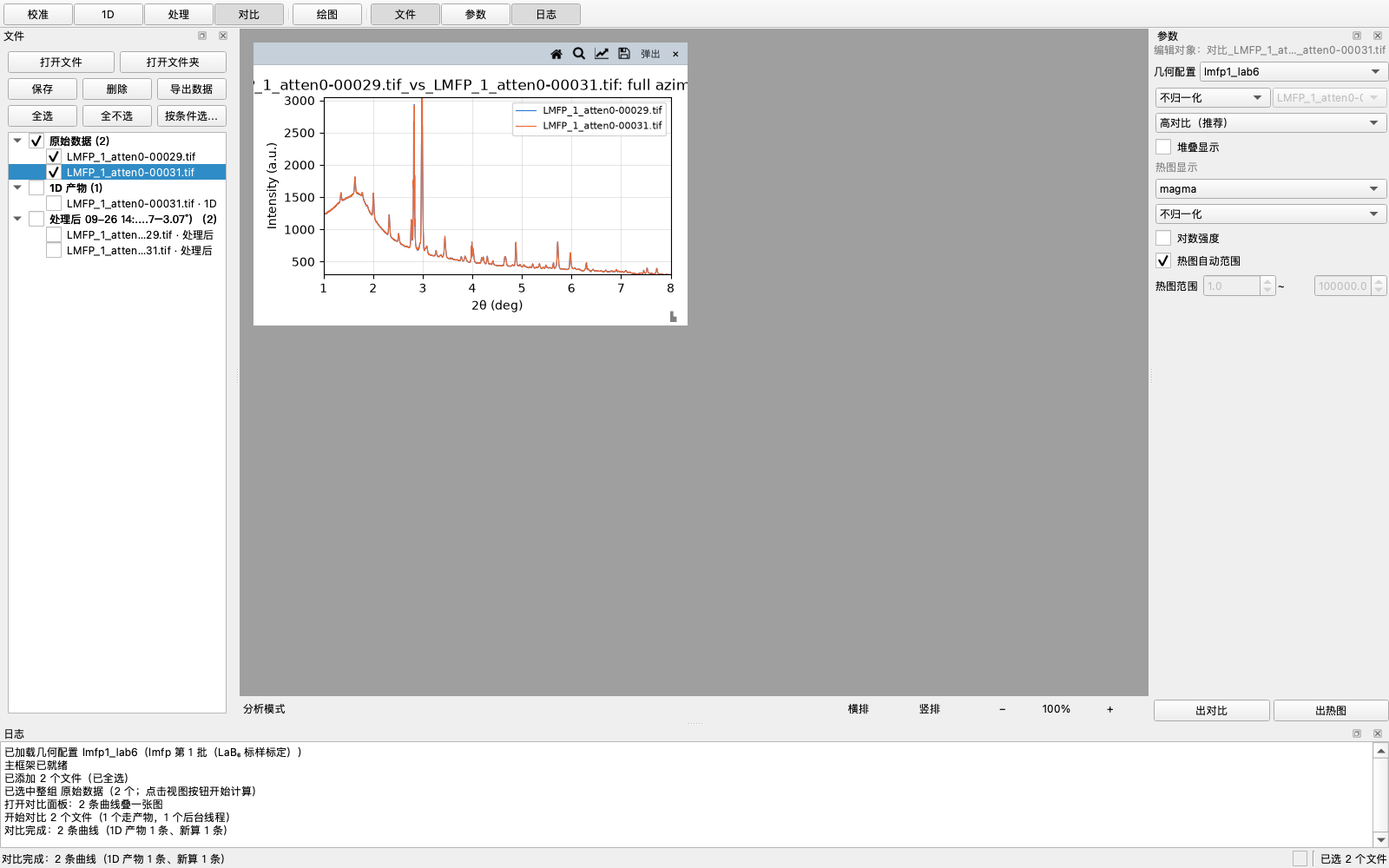
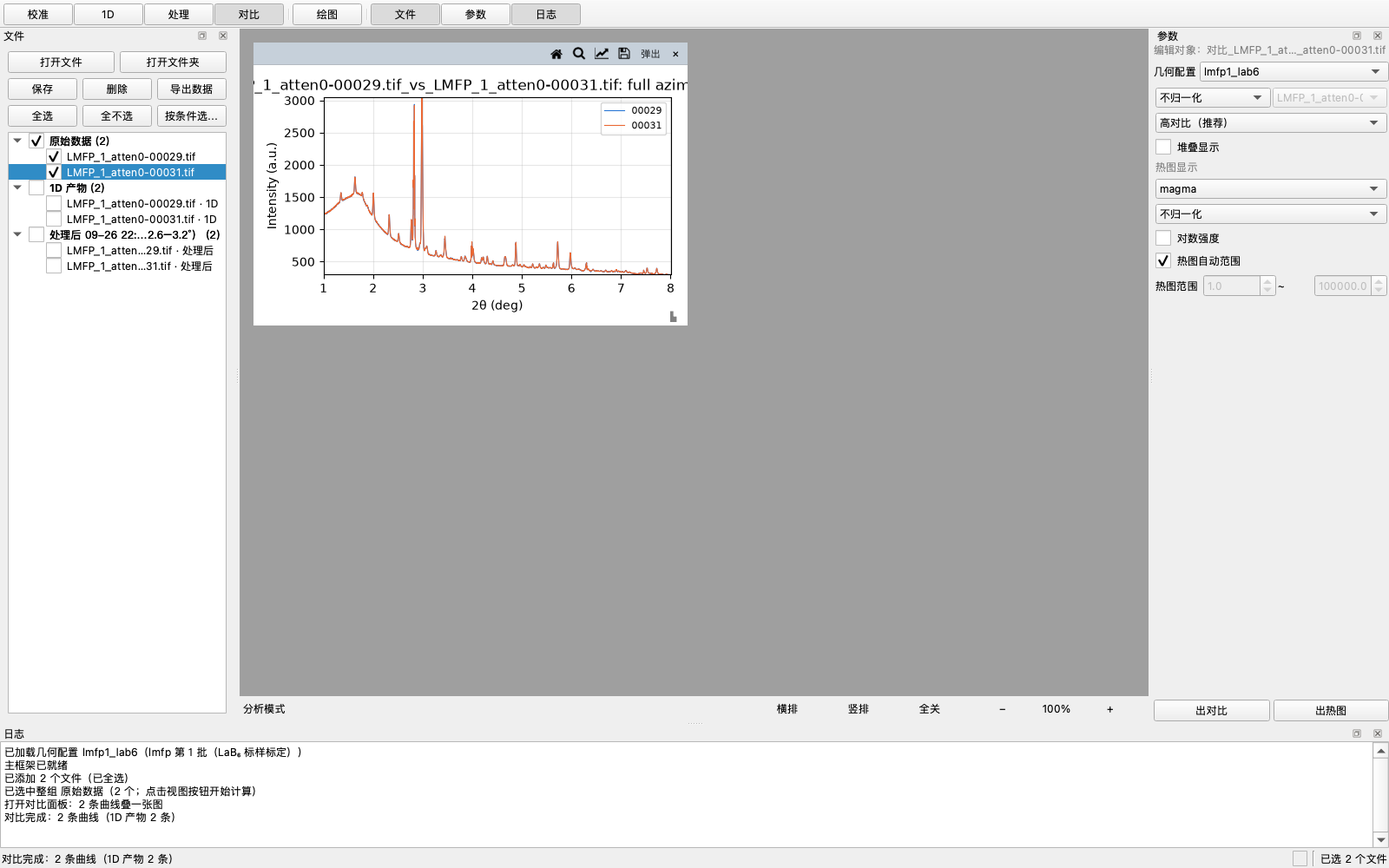
feat: a background that takes the hump with it, and three ways to see 81 curves
Four things from one sitting (2026-09-26), the last three from the user's
"What about this too": "加一个一键关闭所有图像… 对比的图例还是影响看图，
太多了… 热图的名称也没改".

**The auto baseline's default window is 0.5°, not 1.0°.** The user's
"还是不行" traced to the broad amorphous hump at 1.6–2.6° of their LMFP
data: at a 1° window the estimator treats that hump as structure and
leaves it behind (residual median 34, max 527 counts). At 0.5° the
residual is −1/322 while the giant peak keeps its height (2510 → 2516)
and the baseline rides only 142 counts up under it. 0.1° removes the
hump too, but rides the peaks harder (211) — dangerous for samples whose
peaks approach the window width — so 0.5 is the default and 0.1 is one
word away. All four places that carry the default moved together (the
service constant, the two display-default dicts, and _bg_params'
fallback).

**The heatmap's row names are numbers now, and thin out.** 81 names like
"LMFP_1_atten0-00029.tif" smeared into one black band and pushed the map
to the right edge (the user's own screenshot). `_strip_common` takes the
common prefix up to a separator *when every remainder then starts with a
digit* — so "…atten0-00029.tif" → "00029", while "fake_a/fake_b" is left
alone (stripping it would leave "a"/"b") — and the labels are thinned to
the panel height, the same trick the waterfall's χ ticks got.

**The compare panel drops its legend past 12 curves.** A wall of 81 names
covers exactly the data you are comparing; instead the log says how to
[…]

diff --git a/tests/test_gui_integration.py b/tests/test_gui_integration.py
@@ -3916,6 +3916,55 @@ class TestCompare(unittest.TestCase):
             self.assertTrue(_wait_until(lambda: len(ax.lines) >= 2))
         return ax
 
+    def test_strip_common_shortens_batch_names_only(self):
+        """短名助手：剥批次前缀与扩展名换出号段；短名字不剥（免得只剩 a）。"""
+        strip = gui_plot_compare._strip_common
+        self.assertEqual(
+            strip(["LMFP_1_atten0-00029.tif", "LMFP_1_atten0-00031.tif"]),
+            ["00029", "00031"])
+        self.assertEqual(strip(["scan_001.dat", "scan_002.dat"]),
+                         ["001", "002"])
+        # 前缀剥完只剩一个字母的，不剥（反而更难认）；扩展名照剥
+        self.assertEqual(strip(["fake_a.tif", "fake_b.tif"]),
+                         ["fake_a", "fake_b"])
+        self.assertEqual(strip(["样品A", "样品B"]), ["样品A", "样品B"])
+        self.assertEqual(strip(["只有一个"]), ["只有一个"])
+
+    def test_compare_legend_hidden_when_too_many_curves(self):
+        """曲线超过 LEGEND_MAX_CURVES → 不画图例（它挡图），日志说清怎么办。
+
+        用户 2026-09-26："对比的图例还是影响看图，太多了"。认曲线改看
+        状态栏悬停读数（那里本来就报曲线名）。
+        """
+        w = create_window()
+        files = _tmp_files(gui_plot_compare.LEGEND_MAX_CURVES + 1)
+        try:
+            with mock.patch.object(gui_views, "_compute_integration",
+                                   side_effect=_fake_compare_compute):
+                w.add_files([str(p) for p in files], select=True)
+                w.compare_btn.click()
+                ax = self._compare_axes(w)
+                self.assertTrue(_wait_until(
+                    lambda: len(ax.lines) >= len(files)))
+            self.assertIsNone(ax.get_legend(), "条数超限就不该有图例")
+            log = w.log_text.toPlainText()
+            self.assertIn(f"对比图例：{len(files)} 条曲线太多", log)
+            self.assertIn("悬停读数", log)
+            # 少到阈值以内 → 图例回来（用短名）
+            dock = w.plot_docks[[k for k in w.plot_docks
+                                 if k.startswith("对比|")][0]]
+            for key in list(dock.compare_data)[2:]:
+                hidden = set(getattr(dock, "compare_hidden", None) or ())
+                dock.compare_hidden = hidden | {key}
+            gui_plot_compare._redraw_compare(w, dock.panel_key)
+            leg = ax.get_legend()
+            self.assertIsNotNone(leg, "两条曲线的图例该回来")
+            # 名字 = 短名（临时文件叫 s1/s2，扩展名已剥掉）
+            self.assertEqual([t.get_text() for t in leg.get_texts()],
+                             [Path(p).stem for p in files[:2]])
+        finally:
+            w.close()
+
     def test_compare_requires_two_checked_files(self):
         """只勾一个文件点 [对比] → 提示至少两个，不开面板。"""
         w = create_window()
@@ -4233,6 +4282,38 @@ class TestArrangeModeClose(unittest.TestCase):
             self.assertIn("已横排 2 个面板", w.log_text.toPlainText())
             w.arrange_buttons["竖排"].click()
             self.assertIn("已竖排 2 个面板", w.log_text.toPlainText())
+        finally:
+            with mock.patch.object(gui_app, "_confirm_close",
+                                   return_value="discard"):
+                w.close()
+
+    def test_close_all_button_closes_every_panel(self):
+        """[全关]：一键关掉所有图面板，焦点与编辑对象一起复位。
+
+        用户 2026-09-26："加一个一键关闭所有图像，就是打开的子窗口全部
+        关闭"。与单个 × 同一条路径，但**不逐张写日志**（一次关几十张
+        会刷屏），只写一行汇总（含几张没存过盘）。
+        """
+        w = create_window()
+        try:
+            w.show()
+            with mock.patch.object(gui_views, "_compute_integration",
+                                   side_effect=_fake_compute):
+                add_checked(w, ["data/fake_a.tif", "data/fake_b.tif"])
+                _open_view(w, "1D")
+                self.assertTrue(_wait_until(
+                    lambda: len(_axes(w, "1D", "data/fake_a.tif").lines) > 0))
+            self.assertEqual(len(w.plot_docks), 2)
+            w.close_all_btn.click()
+            QApplication.processEvents()
+            self.assertEqual(len(w.plot_docks), 0, "该一张不剩")
+            self.assertIsNone(w.focus_panel)
+            self.assertIn("未选中图面板", w.focus_label.text())
+            log = w.log_text.toPlainText()
+            self.assertIn("已关闭全部 2 张图", log)
+            self.assertIn("没存过盘", log)
+            self.assertEqual(log.count("已关闭面板："), 0,
+                             "全关不逐张写日志（那是刷屏）")
         finally:
             with mock.patch.object(gui_app, "_confirm_close",
                                    return_value="discard"):
@@ -9601,6 +9682,26 @@ class TestHeatmap(unittest.TestCase):
     图像 [应用] 只重画、数据 [应用] 全部重积分。
     """
 
+    def test_heatmap_labels_shorten_and_thin_out(self):
+        """行名 = 号段短名 + 按高度抽稀（81 个长名字会糊成一条黑带）。
+
+        用户 2026-09-26 的热图截图：81 个 "LMFP_1_atten0-000NN" 挤成
+        黑带，还把整张图挤到右边。矮面板抽稀、高面板全标。
+        """
+        from matplotlib.figure import Figure
+        names = [f"LMFP_1_atten0-{i:05d}.tif" for i in range(40)]
+        short = Figure(figsize=(4, 2), dpi=100).add_subplot(111)
+        labels = gui_plot_compare._short_labels(names, short)
+        self.assertEqual(len(labels), 40)
+        shown = [x for x in labels if x]
+        self.assertLess(len(shown), 40, "矮面板上该抽稀")
+        self.assertTrue(shown and all(x.isdigit() for x in shown),
+                        f"该只剩号段：{shown[:3]}")
+        tall = Figure(figsize=(6, 9), dpi=100).add_subplot(111)
+        self.assertEqual(
+            len([x for x in gui_plot_compare._short_labels(names, tall) if x]),
+            40, "9 英寸高的面板放得下 40 个")
+
     def _heat_dock(self, w):
         """找到热图面板（键 = "热图|路径串"）。"""
         return next(d for k, d in w.plot_docks.items()
@@ -10565,7 +10666,8 @@ class TestBackgroundSubtraction(unittest.TestCase):
             w.params["背景窗口 (°)"].setValue(4.0)
             w.findChild(QPushButton, "reset_image_btn").click()
             self.assertEqual(w.params["背景扣除模式"].currentData(), "off")
-            self.assertEqual(w.params["背景窗口 (°)"].value(), 1.0)
+            # 窗口默认 0.5°（2026-09-26 从 1.0° 改，见 background.AUTO_WINDOW_DEG）
+            self.assertEqual(w.params["背景窗口 (°)"].value(), 0.5)
             ax = _axes(w, "1D", self.PATH)
             self.assertEqual(_bg_lines(ax)[1], [])
             self.assertIsNotNone(getattr(dock, "last_tth", None))

diff --git a/src/xrd_toolkit/gui/plot_compare.py b/src/xrd_toolkit/gui/plot_compare.py
@@ -5,6 +5,7 @@
 依赖方向：本模块 → plot_views（背景叠加/重画）与 plot_panels（面板壳），
 反向调用一律函数内延迟导入。
 """
+import os
 import time
 from pathlib import Path
 
@@ -24,6 +25,81 @@ from xrd_toolkit.gui.plot_panels import (
 from xrd_toolkit.gui.plot_views import (
     _batch_step, _bg_path_of, _curve_for, _progress_show, _refresh_proc,
     _spawn)
+
+
+# 对比面板图例最多列几条：再多就不画了（挡住图的是那 81 行名字）。
+# 用户 2026-09-26："对比的图例还是影响看图，太多了"。
+LEGEND_MAX_CURVES = 12
+
+# 剥公共后缀的门槛（".tif" 4 个字符）：够长才剥，且剥完不能空
+MIN_SUFFIX_CHARS = 4
+
+
+def _strip_common(names) -> list:
+    """剥掉一组名字共同的前缀（在最后一个非数字字符处切断）与共同后缀。
+
+    81 个 "LMFP_1_atten0-00029.tif" 里真正有信息的是 "00029"：共同前缀在
+    纵轴上占掉半张图、还糊成一条黑带（用户 2026-09-26 的热图截图）。前缀
+    在**最后一个非数字字符之后**切断，号段位数不丢；后缀（如 ".tif"）整段
+    剥掉。名字不足两个、或剥完会空则原样返回。
+    """
+    if len(names) < 2:
+        return list(names)
+    prefix = os.path.commonprefix(list(names))
+    cut = max((i + 1 for i, ch in enumerate(prefix) if not ch.isdigit()),
+              default=0)
+    prefix = prefix[:cut] if cut else ""
+    # 剥前缀的两个条件：切在分隔符处（"LMFP_1_atten0-" 这样的批次头），
+    # 且剥完每个名字都以**数字**开头——我们要的就是那个号段。于是
+    # "fake_a/fake_b"（剥完是 a/b）不会被剥，反而更好认。
+    out = list(names)
+    if prefix and prefix[-1] in "-_. " and all(
+            n[len(prefix):len(prefix) + 1].isdigit() for n in names):
+        out = [n[len(prefix):] for n in names]
+    suffix = os.path.commonprefix([n[::-1] for n in out])[::-1]
+    if len(suffix) >= MIN_SUFFIX_CHARS and all(len(n) > len(suffix)
+                                               for n in out):
+        out = [n[:-len(suffix)] for n in out]
+    return out
+
+
+def _short_labels(names, ax) -> list:
+    """纵轴标签 = 短名 + 按可用高度抽稀（同瀑布图 χ 刻度那一招）。
+
+    热图一次可能摆 81 个样品：名字糊成黑带之外，整个图还会被标签挤到右边。
+    抽稀按面板高度估（英寸 × dpi），每个标签留 ~11 px；放得下就全标。
+    完整名字仍在面板标题、悬停读数与导出里。
+    """
+    short = _strip_common(list(names))
+    n = len(short)
+    if not n:
+        return []
+    h_px = float(ax.figure.get_size_inches()[1]) * float(ax.figure.dpi)
+    every = max(1, int(np.ceil(n * 11.0 / max(h_px * 0.75, 1.0))))
+    return [s if k % every == 0 else "" for k, s in enumerate(short)]
+
+
+def _draw_compare_legend(window, dock, ax, labels) -> None:
+    """对比面板图例：超过 LEGEND_MAX_CURVES 就不画图例（它挡图）。
+
+    画得下时用**短名**（剥共同前后缀）+ 多列排（每列约 8 条）；条数变了
+    才记一次日志（重画不刷屏）。认曲线不靠图例也行：状态栏悬停读数本来
+    就报曲线名，圆点颜色与曲线一致。
+    """
+    n = len(labels)
+    if n > LEGEND_MAX_CURVES:
+        if getattr(dock, "_legend_off_n", None) != n:
+            dock._legend_off_n = n
+            _log(window, f"对比图例：{n} 条曲线太多、挡住图了，默认不画；"
+                         "点热图某一行可隐藏/显示几条，曲线名看状态栏"
+                         "悬停读数（圆点颜色与曲线一致）")
+        return
+    dock._legend_off_n = None
+    shown = [lb for lb in labels if lb]
+    if not shown:
+        return
+    ax.legend(labels=_strip_common(shown), fontsize=8,
+              ncols=max(1, int(np.ceil(len(shown) / 8.0))))
 
 
 def _compare_title(displays) -> str:
@@ -128,8 +204,10 @@ def _redraw_compare(window: QMainWindow, key: str) -> None:
         _apply_text_guards(dock, ax, keep_title, keep_xlabel, keep_ylabel)
         if dock.compare_data and not stack:
             # 堆叠下 y 刻度 = 样品名（曲线就躺在自己名字那行上），
-            # 图例冗余（同瀑布）
-            ax.legend(fontsize=8)
+            # 图例冗余（同瀑布）；平铺时按条数决定画不画（多了挡图）
+            _draw_compare_legend(
+                window, dock, ax,
+                [ln.get_label() for ln in _data_lines(ax)])
         ax.grid(alpha=0.3)
         _content(dock).draw()
     finally:
@@ -561,7 +639,7 @@ def _draw_heatmap(window: QMainWindow, dock, tth, matrix, stems) -> None:
                        norm=norm, extent=[float(tth[0]), float(tth[-1]),
                                           -0.5, n - 0.5])
         ax.set_yticks(range(n))
-        ax.set_yticklabels(stems, fontsize=7)
+        ax.set_yticklabels(_short_labels(stems, ax), fontsize=7)
         # 颜色条同 2D：只建一次、之后 update_normal 复用（remove+
         # 重建会让坐标轴每次再让 20% 宽度，教训 13）
         cb = getattr(dock, "_heat_colorbar", None)

diff --git a/src/xrd_toolkit/gui/panels.py b/src/xrd_toolkit/gui/panels.py
@@ -204,8 +204,30 @@ def _apply_panel_chrome(dock, content) -> None:
     dock.setWindowFlags(flags)
 
 
-def _close_panel(window: QMainWindow, key: str) -> None:
+def _close_all_panels(window: QMainWindow) -> None:
+    """[全关]：把所有图面板一次关掉（弹出去的独立窗口也一样）。
+
+    用户 2026-09-26："加一个一键关闭所有图像，就是打开的子窗口全部关闭"。
+    与单个 × 同一条 _close_panel 路径（关闭即遗忘、焦点逐个移交）；不弹
+    确认框——单个 × 也不弹（只有关窗才问存不存盘），批量关不该比单个更
+    啰嗦，但日志里报一句有几张没存过盘，免得关完才想起来。
+    """
+    keys = list(window.plot_docks)
+    unsaved = [k for k, d in window.plot_docks.items()
+               if getattr(_content(d), "figure", None) is not None
+               and not getattr(d, "figure_saved", False)]
+    for key in keys:
+        _close_panel(window, key, quiet=True)
+    if keys:
+        tail = f"（其中 {len(unsaved)} 张没存过盘）" if unsaved else ""
+        _log(window, f"已关闭全部 {len(keys)} 张图{tail}")
+
+
+def _close_panel(window: QMainWindow, key: str, quiet: bool = False) -> None:
     """统一关闭面板：从登记表移除（关闭即遗忘）+ 焦点移交 + 销毁容器。
+
+    quiet=True 不写"已关闭面板"那行（[全关] 一次关几十张时不刷屏，
+    汇总行由调用方写）。
 
     幂等：面板已不在登记表里（如收回主窗口后旧壳被删除）直接返回。
     子窗口先从 MDI 摘下再 deleteLater（探针验证 closeEvent 里这组
@@ -224,7 +246,8 @@ def _close_panel(window: QMainWindow, key: str) -> None:
         if dock in window.mdi.subWindowList():
             window.mdi.removeSubWindow(dock)
         dock.deleteLater()
-    _log(window, f"已关闭面板：{dock.windowTitle()}")
+    if not quiet:
+        _log(window, f"已关闭面板：{dock.windowTitle()}")
     if window.focus_panel == key:
         window.focus_panel = None   # 先清空，绕过 _set_focus 的同键早退
         for next_key, next_dock in window.plot_docks.items():
@@ -282,6 +305,16 @@ def _build_center(window: QMainWindow) -> None:
         window.arrange_buttons[name] = btn
         btn.clicked.connect(
             lambda checked=False, n=name: _arrange(window, n))
+    # [全关]：一键关掉所有图面板（用户 2026-09-26："打开的子窗口全部关闭"）
+    btn_close_all = QPushButton("全关")
+    btn_close_all.setObjectName("close_all_panels")
+    btn_close_all.setFlat(True)
+    btn_close_all.setToolTip("关闭所有打开的图面板（弹出的独立窗口也一起关；"
+                             "与单个 × 一样不会问存不存盘，日志里会报几张"
+                             "没存过盘）")
+    btn_close_all.clicked.connect(lambda: _close_all_panels(window))
+    row.addWidget(btn_close_all)
+    window.close_all_btn = btn_close_all
 
     # 总缩放控件（Excel 式 − 100% +）：放在横排/竖排右边
     zoom_box = QWidget()

diff --git a/src/xrd_toolkit/services/background.py b/src/xrd_toolkit/services/background.py
@@ -31,9 +31,13 @@ from scipy.interpolate import CubicSpline, PchipInterpolator
 
 # --- 自动基线的默认参数 -------------------------------------------------
 # 自动基线默认窗口宽度（度）：多宽的一段算"背景"而不是"峰"。
-# 1.0° 的来历：LMFP/lab6 的衍射峰半高宽约 0.1~0.3°，窗口取峰宽的 3~10 倍
-# 时窗内多数点是背景；再宽则跟不上低角陡升。
-AUTO_WINDOW_DEG = 1.0
+# 0.5° 的来历（2026-09-26 晚按真数据实测改，原为 1.0°）：窗口取峰宽的
+# 3~10 倍（LMFP/lab6 峰半高宽 0.1~0.3°）时窗内多数点是背景；但 1.0° 会把
+# **宽非晶鼓包**（1.6~2.6° 那个包，正是样品自身的漫散射 = 背景）留在扣后
+# 曲线里——实测残留中位 34、最大 527。改 0.5° 后残留中位 −1、最大 322，
+# 而巨峰扣后高度几乎不变（2510 → 2516），基线在峰下只抬高 142（0.1° 会
+# 抬到 211，峰宽接近窗口的样品有啃峰风险，故取 0.5 而不是更小）。
+AUTO_WINDOW_DEG = 0.5
 # 阶段 1 用的低分位：给一个**不会被峰抬高**的局部下限（可以偏低）。
 AUTO_FLOOR_PERCENTILE = 20.0
 # 阶段 2 迭代次数与噪声带宽度 k（掩掉"高于局部下限 + kσ"的峰点）。

diff --git a/src/xrd_toolkit/gui/panel_state.py b/src/xrd_toolkit/gui/panel_state.py
@@ -120,7 +120,7 @@ _DISPLAY_DEFAULTS = {
     # auto 自动基线 / anchor 手动锚点；锚点列表与空扫曲线不是参数，
     # 放窗级属性（window.bg_anchors / window.bg_blank）
     "背景扣除模式": "off",
-    "背景窗口 (°)": 1.0,
+    "背景窗口 (°)": 0.5,
     "空扫归一化": 1.0,
     # 锚点之间的拟合：保单调平滑（pchip，过点、不过冲）。新面板的显示
     # 参数从这份默认起步、再回放进控件——所以这里不跟着改的话，界面
@@ -510,7 +510,7 @@ def _bg_params(window: QMainWindow, dock, path) -> dict:
     """
     return {
         "mode": _panel_param(window, dock, "背景扣除模式", "off"),
-        "window_deg": _panel_param(window, dock, "背景窗口 (°)", 1.0),
+        "window_deg": _panel_param(window, dock, "背景窗口 (°)", 0.5),
         "blank_scale": _panel_param(window, dock, "空扫归一化", 1.0),
         "anchors": (getattr(window, "bg_anchors", None) or {}).get(str(path),
                                                                   []),

diff --git a/src/xrd_toolkit/gui/app.py b/src/xrd_toolkit/gui/app.py
@@ -1152,7 +1152,7 @@ def _build_param_dock(window: QMainWindow) -> QDockWidget:
         "热图下限": 1.0,
         "热图上限": 100000.0,
         "背景扣除模式": "off",
-        "背景窗口 (°)": 1.0,
+        "背景窗口 (°)": 0.5,
         "空扫归一化": 1.0,
         "锚点拟合方式": "pchip",
         "背景显示原始": True,

diff --git a/docs/NOTES.md b/docs/NOTES.md
@@ -155,7 +155,7 @@ The parameter dock's 背景扣除 section removes what carries no structural inf
 Three modes, every one previewed live (parameters change the drawing only — the cached raw curve is never touched, so nothing re-integrates):
 
 - **empty-scan subtraction** — subtract a blank measurement, with a normalization factor for differing exposure/beam current;
-- **auto baseline** — rolling-window level estimate; set the window to 3–10× the widest peak's width (the local-linear stage below widened the usable range from "around 1°" to 0.5–3°);
+- **auto baseline** — rolling-window level estimate; set the window to 3–10× the widest peak's width (the local-linear stage below widened the usable range from "around 1°" to 0.5–3°). **Default 0.5°** since 2026-09-26, down from 1.0°: on the LMFP data a 1° window left the broad amorphous hump (1.6–2.6°) behind as a residual (median 34, max 527 counts), because that hump is wide enough to look like structure to the estimator — 0.5° takes it out (residual median −1, max 322) while the giant peak keeps its height (2510 → 2516); 0.1° removes it too but rides the peaks harder (baseline 211 counts up under the giant peak vs 142);
 - **manual anchors** — click points that are background only; the baseline joins them and is extrapolated linearly past the first/last anchor. Between anchors it defaults to a **monotone-preserving smooth** (pchip: exact through the anchors, smooth, no overshoot); a polyline (the lab convention) and a natural cubic spline (can overshoot) are also available.
 
 **The auto baseline's two stages, and why stage 2 is now a line fit.** Stage 1 takes a low percentile inside the window — a floor that peaks cannot lift, deliberately on the low side. Stage 2 turns that floor into a *level at the window centre*, and on 2026-09-26 that changed from "mean of the un-masked points" to "**least-squares line through them, evaluated at the centre**": on a steeply decaying background the mask throws away the window's high side, so the mean lands below the truth and the low-angle end is systematically over-subtracted (measured against a synthetic truth: −139/−163/−533 for windows of 1°/2°/3°), while a local line has no such bias (+3.7/+1.0/−9.3, mean absolute error 42→35, 63→46, 94→67). The implementation is vectorized — the mask is a per-point criterion, so prefix sums plus a 2×2 normal-equation solve do all windows at once (100 000 points in 21 ms).
@@ -182,7 +182,7 @@ SNIP was implemented and measured as well, but it over-subtracts by 43–98 % on
 
 **Background products.** [批量扣背景（勾选文件）] applies the current figure's anchors to the whole batch — the anchors carry **only their 2θ positions**, the intensities are re-sampled from each file's own curve (a batch shares the background *shape*, not its absolute level; copying the intensities would lift another file's baseline by a factor). Each result is stored, and the Compare / Heatmap views read those products first, saying so in the log ("扣背景产物 N 条"). Changing a background setting does not invalidate anything by hand: the product key contains the settings hash, so a change redraws live (milliseconds) and only an unchanged recipe reads the product.
 
-**The file bar is a tree** — the 原始数据 group on top, then one group per stage: 1D 产物 (already integrated under the current settings) and 扣背景 09-25 14:03（锚点 5 个，窗口 2°）… (one group per [批量扣背景], named with its time and recipe, so you can tell which parameter set a result came from). **Checking a group checks everything in it** (two states only — all checked lights the group up, anything else leaves it blank; the old half-check dash was indistinguishable from blank, so the user had it removed), so a whole batch of background-subtracted curves goes to [对比] / [热图] in two clicks. **Double-clicking an entry opens that one 1D panel** (cache hit if it was integrated already) and right-clicking a group offers [打开整组 1D 图]. Right-clicking deletes: a product group (the whole batch, ledger and stored products together) or a single product entry — every kind of product can be removed from the file bar, and the 1D 产物 group is no exception. Groups are rebuilt only when something happens (import / delete, batch background, cache clear) — never on a timer.
+**The file bar is a tree** — the 原始数据 group on top, then one group per stage: 1D 产物 (already integrated under the current settings) and 扣背景 09-25 14:03（锚点 5 个，窗口 2°）… (one group per [批量扣背景], named with its time and recipe, so you can tell which parameter set a result came from). 81 samples' row names would otherwise smear into one black band: the heatmap strips each name down to its number run ("LMFP_1_atten0-00029.tif" → "00029") and thins the labels to the panel height, and the compare panel **drops the legend entirely past 12 curves** (a wall of 81 names covers the data — hover the status bar readout instead, which names the curve and whose dot takes the curve's colour). **Checking a group checks everything in it** (two states only — all checked lights the group up, anything else leaves it blank; the old half-check dash was indistinguishable from blank, so the user had it removed), so a whole batch of background-subtracted curves goes to [对比] / [热图] in two clicks. **Double-clicking an entry opens that one 1D panel** (cache hit if it was integrated already) and right-clicking a group offers [打开整组 1D 图]. Right-clicking deletes: a product group (the whole batch, ledger and stored products together) or a single product entry — every kind of product can be removed from the file bar, and the 1D 产物 group is no exception. Groups are rebuilt only when something happens (import / delete, batch background, cache clear) — never on a timer.
 
 **The two kinds of product are treated differently.** A **1D product** *is* the raw integrated curve, pinned to one cache entry, so it gets the same treatment as a raw file — anchors and auto-baseline work on it, and it can go through [批量扣背景] like anything else (the result hangs off *that* 1D key: whatever you checked is what gets subtracted). A **background product** is the finished article: its panel is forced to "no subtraction" and it is never subtracted again — subtracting twice is what that would be. Plotting or exporting a product reads that exact stored curve, with no re-integration.
 

diff --git a/docs/README.zh-CN.md b/docs/README.zh-CN.md
@@ -93,11 +93,11 @@ python scripts/sector_waterfall.py   --file data/xxx.tif --n-sectors 36
   [平滑]（滑动平均 / Savitzky–Golay 两种，窗口按 2θ 给；同一窗口下 SG 保峰好得多，实测削 82% vs 91%）、[裁剪]（把某段 2θ 挖掉，让被巨峰压扁的其余部分看得清）。
   一张图调好后点 [批量处理]，整批各生成一份处理产物（文件栏里成为「处理后 …」分组），
   对比 / 热图 / 导出都读它。
-- **一键出图**——「绘图」页里的 [2D] [剖面] [1D] [瀑布] 把勾选的文件一次全部出图；[对比] 把多条曲线叠进同一面板（三种归一化，都是全场统一的比例——刻意没有「各自最强峰」那种逐条缩放的模式）；[热图] 把整批拼成一张 2θ×样品 图，点热图某一行 = 在对比图里隐藏/显示该条曲线。
+- **一键出图**——「绘图」页里的 [2D] [剖面] [1D] [瀑布] 把勾选的文件一次全部出图；[对比] 把多条曲线叠进同一面板（三种归一化，都是全场统一的比例——刻意没有「各自最强峰」那种逐条缩放的模式；**超过 12 条曲线不再画图例**——那 81 行名字比数据还占地方，认曲线改看状态栏悬停读数）；[热图] 把整批拼成一张 2θ×样品 图，行名自动缩成号段并按面板高度抽稀，点热图某一行 = 在对比图里隐藏/显示该条曲线。
 - **文件栏**——一棵树：顶上是原始数据，往下是各阶段产物分组（「1D 产物」= 当前设置算好的；「处理后 …」= 每次 [批量处理] 一组，组名带时间与参数）。**勾组 = 组里整组勾上**，整组勾上去 [对比]/[热图] 就是两下点击的事。导入默认一个都不勾：[全选] / [全不选] / [按条件选…]（区间·间隔·名字筛选，带实时预览）。
 - **右键一个入口管全部**——**删除**：原始数据只从列表移除（硬盘上的文件永远不动），产物真删（单条或整组，连带台账）；**导出**：产物条目 / 分组可直接导出 txt / chi / CSV，不必先去勾选；菜单最后一项是**删除所有缓存**（二次确认）。
 - **实时参数面板**——每个面板的数据与显示参数集中一栏（提示气泡全覆盖，分组重置/应用，面板快照）；数据组的 2θ 范围直接约束积分本身，缩放/平移实时写回视图范围。
-- **面板壳与手势**——每面板一行自绘标题栏（Home / 放大镜 / Customize / 保存，外加弹出与关闭）；左键拖动平移、放大镜点亮后滚轮以光标为中心缩放 + 左键拖框放大、悬停时状态栏显示数据点读数、每条边都能拖。
+- **面板壳与手势**——每面板一行自绘标题栏（Home / 放大镜 / Customize / 保存，外加弹出与关闭）；左键拖动平移、放大镜点亮后滚轮以光标为中心缩放 + 左键拖框放大、悬停时状态栏显示数据点读数、每条边都能拖；绘图区底部一角有 [横排][竖排][全关]，一次关掉所有图面板。
 - **校准工作台**——三列表（当前配置 + 对比位 A / B）压着自动与手动两套动作；每个结果按自己的名字累积，"用的到底是哪一份"由引擎指标决定。参数面板顶部钉着两行全局控件：编辑对象，以及当前用哪条几何条目——任何一页都能换（悬停看像素尺寸 / 波长 / 距离，校准页的提示会补一句"校准跟的是本页的当前配置"）；校准模式下同一行给出 [返回分析模式] 出口。指标**抓不到什么**也写在 [详细说明](NOTES.zh-CN.md#校准) 里。
 - **几何参数进出**——[保存参数] 把当前配置写成 pyFAI 通用 `.poni` 文件，[加载参数] 读回来存成命名条目（重启仍在，命令行 `--config` 同样可用）。
 

diff --git a/README.md b/README.md
@@ -97,7 +97,7 @@ Typical workflow: `view_diffraction` (inspect) → `calibrate_integrate` (geomet
 - **One-click views** — [2D] [Profile] [1D] [Waterfall] plot every checked file at once, straight from the engine. [Compare] overlays several curves with three normalization modes (one shared scale in all of them — per-curve normalization is deliberately absent); [Heatmap] assembles the batch into one 2θ × sample map, and clicking a heatmap row toggles that sample's curve in an open Compare panel.
 - **File bar** — a tree: the raw files at the top, then one group per stage product (1D 产物, and one group per batch background run, named with its time and recipe). Checking a group checks everything in it (two states: all-checked lights it up, anything else leaves it blank), so a batch of background-subtracted curves goes to a comparison plot in two clicks; double-clicking an entry opens that one's 1D panel, and a group's right-click can open all of it. One right-click handles both verbs: **delete** (raw entries leave the list only — the files on disk are never touched; products are really deleted, one entry or a whole group, ledger included) and **export** (a product entry or group goes straight to txt / chi / CSV without checking anything first), plus **delete all cache** with a confirmation. Imports start unchecked — select with [全选] / [全不选] / [按条件选…] (range, stride, name filter, with a live count).
 - **Live parameter dock** — data and display parameters per panel, tooltips throughout, per-panel snapshots; zoom and pan write the view range back in real time.
-- **Panel chrome and gestures** — one self-drawn row per panel (Home / magnifier / Customize / save, plus pop-out and close), left-drag to pan, box zoom when the magnifier is lit, hover readout in the status bar, resize grips on every edge.
+- **Panel chrome and gestures** — one self-drawn row per panel (Home / magnifier / Customize / save, plus pop-out and close), left-drag to pan, box zoom when the magnifier is lit, hover readout in the status bar, resize grips on every edge; the drawing area's corner carries [横排] / [竖排] / [全关] — close every panel at once.
 - **Calibration workbench** — a three-column table (current geometry + slots A / B) over auto and manual calibration; every result accumulates under its own name and the engine metrics decide which one wins. Two rows pinned above every page carry the global controls: the edit target, and the geometry entry in force — pick an entry there from any page (hover it for pixel size / wavelength / distance; the calibration page adds a note that *it* works on the page's own current geometry), and in calibration mode the same row offers [返回分析模式], the way out. Details, including what the metrics can *not* catch, are in [docs/NOTES.md](docs/NOTES.md#calibration).
 - **Save / load .poni** — export the current geometry as a standard pyFAI `.poni` file, or import one as a named config entry that survives restarts and is usable from the CLI via `--config`.
 
